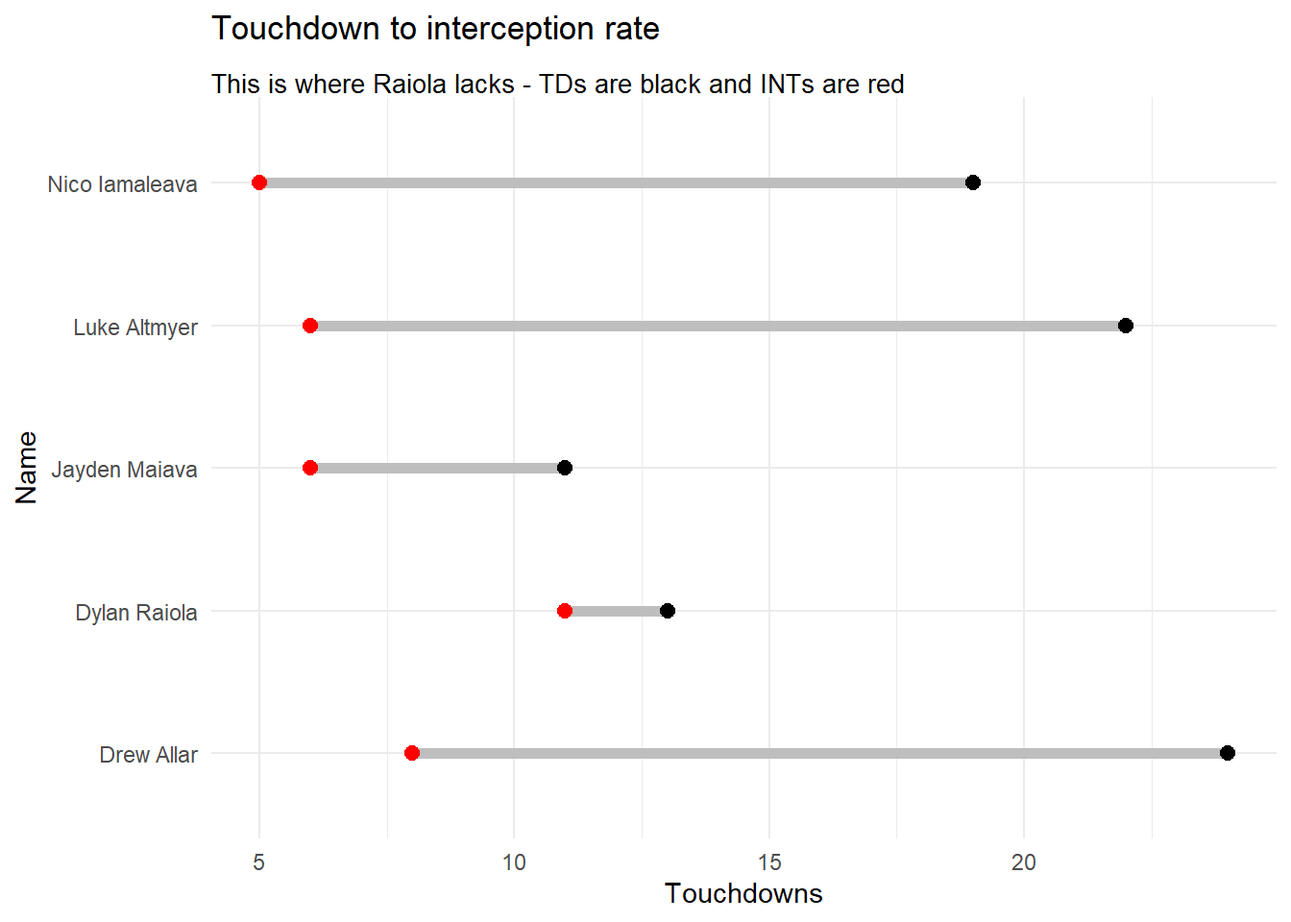
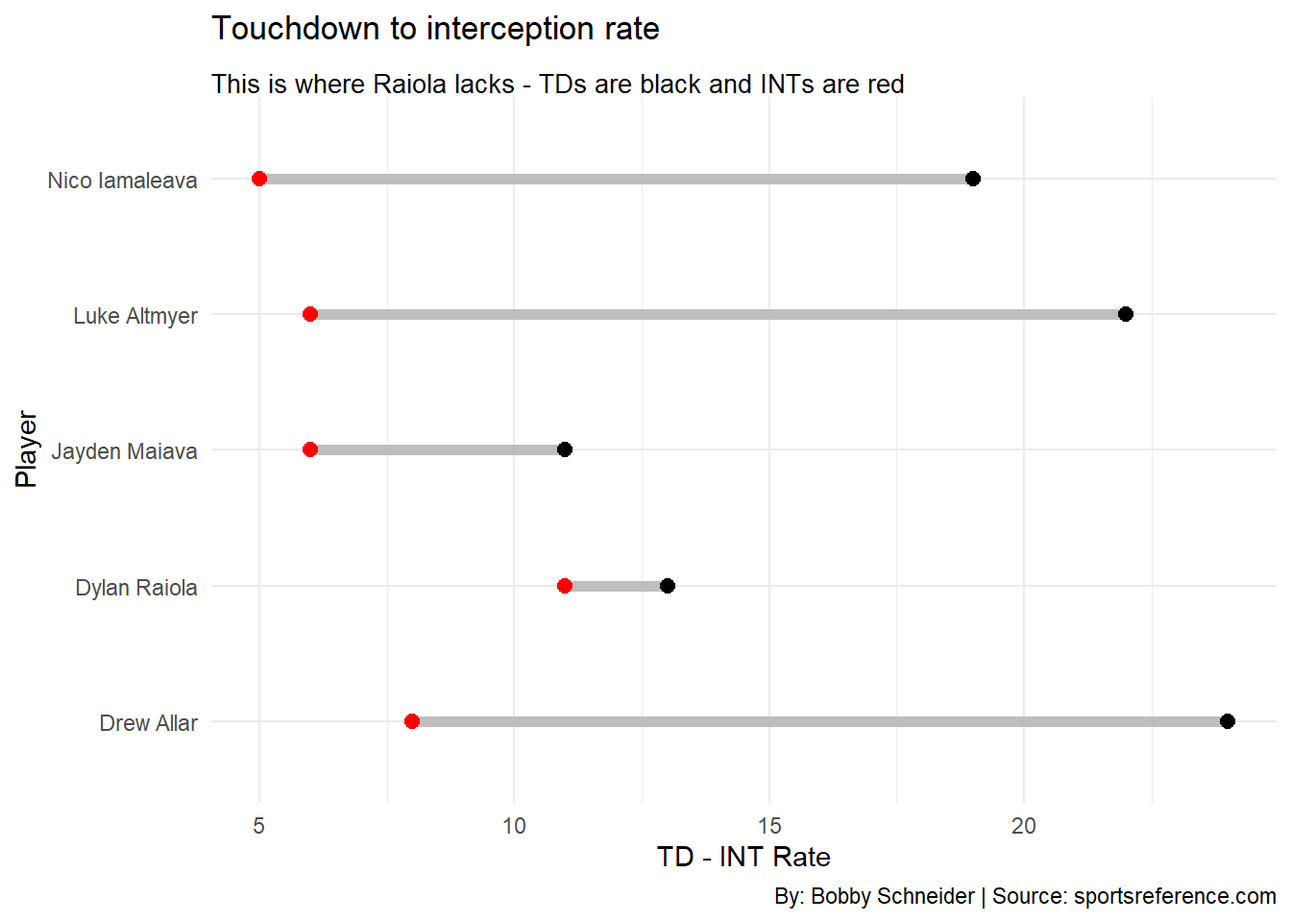
update15

diff --git a/posts/dylan-raiola-compared-to-big-ten-qbs/index.html b/posts/dylan-raiola-compared-to-big-ten-qbs/index.html
@@ -194,104 +194,16 @@ pre > code.sourceCode > span > a:first-child::before { text-decoration: underlin
 <div class="cell">
 <details class="code-fold">
 <summary>Code</summary>
-<div class="sourceCode cell-code" id="cb1"><pre class="sourceCode r code-with-copy"><code class="sourceCode r"><span id="cb1-1"><a href="#cb1-1" aria-hidden="true" tabindex="-1"></a><span class="fu">library</span>(tidyverse)</span></code><button title="Copy to Clipboard" class="code-copy-button"><i class="bi"></i></button></pre></div>
-</details>
-<div class="cell-output cell-output-stderr">
-<pre><code>Warning: package 'dplyr' was built under R version 4.4.3</code></pre>
-</div>
-<div class="cell-output cell-output-stderr">
-<pre><code>── Attaching core tidyverse packages ──────────────────────── tidyverse 2.0.0 ──
-✔ dplyr     1.1.4     ✔ readr     2.1.5
-✔ forcats   1.0.0     ✔ stringr   1.5.1
-✔ ggplot2   3.5.1     ✔ tibble    3.2.1
-✔ lubridate 1.9.4     ✔ tidyr     1.3.1
-✔ purrr     1.0.2     
-── Conflicts ────────────────────────────────────────── tidyverse_conflicts() ──
-✖ dplyr::filter() masks stats::filter()
-✖ dplyr::lag()    masks stats::lag()
-ℹ Use the conflicted package (&lt;http://conflicted.r-lib.org/&gt;) to force all conflicts to become errors</code></pre>
-</div>
-<details class="code-fold">
-<summary>Code</summary>
-<div class="sourceCode cell-code" id="cb4"><pre class="sourceCode r code-with-copy"><code class="sourceCode r"><span id="cb4-1"><a href="#cb4-1" aria-hidden="true" tabindex="-1"></a><span class="fu">library</span>(waffle)</span>
-<span id="cb4-2"><a href="#cb4-2" aria-hidden="true" tabindex="-1"></a><span class="fu">library</span>(ggalt)</span></code><button title="Copy to Clipboard" class="code-copy-button"><i class="bi"></i></button></pre></div>
-</details>
-<div class="cell-output cell-output-stderr">
-<pre><code>Registered S3 methods overwritten by 'ggalt':
-  method                  from   
-  grid.draw.absoluteGrob  ggplot2
-  grobHeight.absoluteGrob ggplot2
-  grobWidth.absoluteGrob  ggplot2
-  grobX.absoluteGrob      ggplot2
-  grobY.absoluteGrob      ggplot2</code></pre>
-</div>
-<details class="code-fold">
-<summary>Code</summary>
-<div class="sourceCode cell-code" id="cb6"><pre class="sourceCode r code-with-copy"><code class="sourceCode r"><span id="cb6-1"><a href="#cb6-1" aria-hidden="true" tabindex="-1"></a><span class="fu">library</span>(ggrepel)</span>
-<span id="cb6-2"><a href="#cb6-2" aria-hidden="true" tabindex="-1"></a><span class="fu">library</span>(ggtext)</span></code><button title="Copy to Clipboard" class="code-copy-button"><i class="bi"></i></button></pre></div>
-</details>
-</div>
-<div class="cell">
-<details class="code-fold">
-<summary>Code</summary>
-<div class="sourceCode cell-code" id="cb7"><pre class="sourceCode r code-with-copy"><code class="sourceCode r"><span id="cb7-1"><a href="#cb7-1" aria-hidden="true" tabindex="-1"></a>Raiola_B1G_QBs <span class="ot">&lt;-</span> <span class="fu">read.csv</span>(<span class="st">"Raiola_Project.csv"</span>)</span></code><button title="Copy to Clipboard" class="code-copy-button"><i class="bi"></i></button></pre></div>
-</details>
-</div>
-<div class="cell">
-<details class="code-fold">
-<summary>Code</summary>
-<div class="sourceCode cell-code" id="cb8"><pre class="sourceCode r code-with-copy"><code class="sourceCode r"><span id="cb8-1"><a href="#cb8-1" aria-hidden="true" tabindex="-1"></a><span class="fu">head</span>(Raiola_B1G_QBs)</span></code><button title="Copy to Clipboard" class="code-copy-button"><i class="bi"></i></button></pre></div>
-</details>
-<div class="cell-output cell-output-stdout">
-<pre><code>  Season           Name       Team Conference Class Position Games Completions
-1   2024   Dylan Raiola   Nebraska    Big Ten    SO       QB    13         275
-2   2024 Nico Iamaleava  Tennessee        SEC    SO       QB    13         213
-3   2024   Luke Altmyer   Illinois    Big Ten    SR       QB    13         211
-4   2024     Drew Allar Penn State    Big Ten    SR       QB    16         262
-5   2024  Jayden Maiava        USC    Big Ten    JR       QB     7         101
-  Attempts Completion_Percentage Yards TD TD.Pct Int Int.Pct Y.A AY.A  Y.C
-1      410                  67.1  2819 13    3.2  11     2.7 6.9 6.30 10.3
-2      334                  63.8  2616 19    5.7   5     1.5 7.8 8.30 12.3
-3      347                  60.8  2717 22    6.3   6     1.7 7.8 8.32 12.9
-4      394                  66.5  3327 24    6.1   8     2.0 8.4 8.75 12.7
-5      169                  59.8  1201 11    6.5   6     3.6 7.1 6.81 11.9
-    Y.G   QBR
-1 216.8 129.9
-2 201.2 145.3
-3 209.0 144.0
-4 207.9 153.5
-5 171.6 133.8</code></pre>
-</div>
-</div>
-<div class="cell">
-<details class="code-fold">
-<summary>Code</summary>
-<div class="sourceCode cell-code" id="cb10"><pre class="sourceCode r code-with-copy"><code class="sourceCode r"><span id="cb10-1"><a href="#cb10-1" aria-hidden="true" tabindex="-1"></a>Pass_Yards <span class="ot">&lt;-</span> Raiola_B1G_QBs <span class="sc">|&gt;</span></span>
-<span id="cb10-2"><a href="#cb10-2" aria-hidden="true" tabindex="-1"></a>  <span class="fu">select</span>(Yards)</span></code><button title="Copy to Clipboard" class="code-copy-button"><i class="bi"></i></button></pre></div>
-</details>
-</div>
-<div class="cell">
-<details class="code-fold">
-<summary>Code</summary>
-<div class="sourceCode cell-code" id="cb11"><pre class="sourceCode r code-with-copy"><code class="sourceCode r"><span id="cb11-1"><a href="#cb11-1" aria-hidden="true" tabindex="-1"></a>Pass_Yards <span class="ot">&lt;-</span> <span class="fu">c</span>(</span>
-<span id="cb11-2"><a href="#cb11-2" aria-hidden="true" tabindex="-1"></a>  <span class="st">"Raiola"</span> <span class="ot">=</span> <span class="dv">89</span>,</span>
-<span id="cb11-3"><a href="#cb11-3" aria-hidden="true" tabindex="-1"></a>  <span class="st">"Iamaleava"</span> <span class="ot">=</span> <span class="dv">66</span>,</span>
-<span id="cb11-4"><a href="#cb11-4" aria-hidden="true" tabindex="-1"></a>  <span class="st">"Altmyer"</span> <span class="ot">=</span> <span class="dv">77</span>,</span>
-<span id="cb11-5"><a href="#cb11-5" aria-hidden="true" tabindex="-1"></a>  <span class="st">"Allar"</span> <span class="ot">=</span> <span class="dv">127</span>,</span>
-<span id="cb11-6"><a href="#cb11-6" aria-hidden="true" tabindex="-1"></a>  <span class="st">"Maiava"</span> <span class="ot">=</span> <span class="dv">21</span></span>
-<span id="cb11-7"><a href="#cb11-7" aria-hidden="true" tabindex="-1"></a>)</span></code><button title="Copy to Clipboard" class="code-copy-button"><i class="bi"></i></button></pre></div>
-</details>
-</div>
-<div class="cell">
-<details class="code-fold">
-<summary>Code</summary>
-<div class="sourceCode cell-code" id="cb12"><pre class="sourceCode r code-with-copy"><code class="sourceCode r"><span id="cb12-1"><a href="#cb12-1" aria-hidden="true" tabindex="-1"></a><span class="fu">waffle</span>(</span>
-<span id="cb12-2"><a href="#cb12-2" aria-hidden="true" tabindex="-1"></a>        Pass_Yards, </span>
-<span id="cb12-3"><a href="#cb12-3" aria-hidden="true" tabindex="-1"></a>        <span class="at">rows =</span> <span class="dv">10</span>, </span>
-<span id="cb12-4"><a href="#cb12-4" aria-hidden="true" tabindex="-1"></a>        <span class="at">title=</span><span class="st">"Passing Yards"</span>, </span>
-<span id="cb12-5"><a href="#cb12-5" aria-hidden="true" tabindex="-1"></a>        <span class="at">xlab=</span><span class="st">"1 square = 10 yards"</span>, </span>
-<span id="cb12-6"><a href="#cb12-6" aria-hidden="true" tabindex="-1"></a>        <span class="at">colors =</span> <span class="fu">c</span>(<span class="st">"red"</span>, <span class="st">"skyblue"</span>, <span class="st">"orange"</span>, <span class="st">"navy"</span>, <span class="st">"gold"</span>)</span>
-<span id="cb12-7"><a href="#cb12-7" aria-hidden="true" tabindex="-1"></a>)</span></code><button title="Copy to Clipboard" class="code-copy-button"><i class="bi"></i></button></pre></div>
+<div class="sourceCode cell-code" id="cb1"><pre class="sourceCode r code-with-copy"><code class="sourceCode r"><span id="cb1-1"><a href="#cb1-1" aria-hidden="true" tabindex="-1"></a><span class="fu">waffle</span>(</span>
+<span id="cb1-2"><a href="#cb1-2" aria-hidden="true" tabindex="-1"></a>        Pass_Yards, </span>
+<span id="cb1-3"><a href="#cb1-3" aria-hidden="true" tabindex="-1"></a>        <span class="at">rows =</span> <span class="dv">10</span>, </span>
+<span id="cb1-4"><a href="#cb1-4" aria-hidden="true" tabindex="-1"></a>        <span class="at">title=</span><span class="st">"Passing Yards"</span>, </span>
+<span id="cb1-5"><a href="#cb1-5" aria-hidden="true" tabindex="-1"></a>        <span class="at">xlab=</span><span class="st">"1 square = 10 yards"</span>, </span>
+<span id="cb1-6"><a href="#cb1-6" aria-hidden="true" tabindex="-1"></a>        <span class="at">colors =</span> <span class="fu">c</span>(<span class="st">"red"</span>, <span class="st">"skyblue"</span>, <span class="st">"orange"</span>, <span class="st">"navy"</span>, <span class="st">"gold"</span>)</span>
+<span id="cb1-7"><a href="#cb1-7" aria-hidden="true" tabindex="-1"></a>)<span class="sc">+</span></span>
+<span id="cb1-8"><a href="#cb1-8" aria-hidden="true" tabindex="-1"></a><span class="fu">labs</span>(</span>
+<span id="cb1-9"><a href="#cb1-9" aria-hidden="true" tabindex="-1"></a>    <span class="at">title=</span><span class="st">"Looking at passing yards, where's Raiola?"</span>, </span>
+<span id="cb1-10"><a href="#cb1-10" aria-hidden="true" tabindex="-1"></a>    <span class="at">subtitle =</span> <span class="st">"Raiola comes in ranked second"</span>)</span></code><button title="Copy to Clipboard" class="code-copy-button"><i class="bi"></i></button></pre></div>
 </details>
 <div class="cell-output-display">
 <div>
@@ -300,14 +212,35 @@ pre > code.sourceCode > span > a:first-child::before { text-decoration: underlin
 </figure>
 </div>
 </div>
+<details class="code-fold">
+<summary>Code</summary>
+<div class="sourceCode cell-code" id="cb2"><pre class="sourceCode r code-with-copy"><code class="sourceCode r"><span id="cb2-1"><a href="#cb2-1" aria-hidden="true" tabindex="-1"></a>caption <span class="ot">=</span> <span class="st">"By: Bobby Schneider | Source: sportsreference.com"</span></span></code><button title="Copy to Clipboard" class="code-copy-button"><i class="bi"></i></button></pre></div>
+</details>
 </div>
 <div class="cell">
 <details class="code-fold">
 <summary>Code</summary>
-<div class="sourceCode cell-code" id="cb13"><pre class="sourceCode r code-with-copy"><code class="sourceCode r"><span id="cb13-1"><a href="#cb13-1" aria-hidden="true" tabindex="-1"></a>Raiola_B1G_QBs <span class="sc">|&gt;</span></span>
-<span id="cb13-2"><a href="#cb13-2" aria-hidden="true" tabindex="-1"></a>  <span class="fu">ggplot</span>() <span class="sc">+</span> <span class="fu">geom_point</span>(<span class="at">data=</span>Raiola_B1G_QBs, <span class="fu">aes</span>(<span class="at">x=</span>Completion_Percentage, <span class="at">y=</span>Attempts), <span class="at">color=</span><span class="st">"black"</span>) <span class="sc">+</span></span>
-<span id="cb13-3"><a href="#cb13-3" aria-hidden="true" tabindex="-1"></a>  <span class="fu">geom_text_repel</span>(<span class="at">data=</span>Raiola_B1G_QBs, <span class="fu">aes</span>(<span class="at">x=</span>Completion_Percentage, <span class="at">y=</span>Attempts, <span class="at">label=</span>Name)) <span class="sc">+</span></span>
-<span id="cb13-4"><a href="#cb13-4" aria-hidden="true" tabindex="-1"></a>  <span class="fu">theme_minimal</span>()</span></code><button title="Copy to Clipboard" class="code-copy-button"><i class="bi"></i></button></pre></div>
+<div class="sourceCode cell-code" id="cb3"><pre class="sourceCode r code-with-copy"><code class="sourceCode r"><span id="cb3-1"><a href="#cb3-1" aria-hidden="true" tabindex="-1"></a>Raiola_B1G_QBs <span class="sc">|&gt;</span></span>
+<span id="cb3-2"><a href="#cb3-2" aria-hidden="true" tabindex="-1"></a>  <span class="fu">ggplot</span>() <span class="sc">+</span> </span>
+<span id="cb3-3"><a href="#cb3-3" aria-hidden="true" tabindex="-1"></a>  <span class="fu">geom_point</span>(<span class="fu">aes</span>(<span class="at">x =</span> Completion_Percentage, <span class="at">y =</span> Attempts), <span class="at">color =</span> <span class="st">"black"</span>) <span class="sc">+</span></span>
+<span id="cb3-4"><a href="#cb3-4" aria-hidden="true" tabindex="-1"></a>  <span class="fu">geom_text_repel</span>(</span>
+<span id="cb3-5"><a href="#cb3-5" aria-hidden="true" tabindex="-1"></a>    <span class="fu">aes</span>(<span class="at">x =</span> Completion_Percentage, <span class="at">y =</span> Attempts, <span class="at">label =</span> Name, <span class="at">color =</span> Name)</span>
+<span id="cb3-6"><a href="#cb3-6" aria-hidden="true" tabindex="-1"></a>  ) <span class="sc">+</span> </span>
+<span id="cb3-7"><a href="#cb3-7" aria-hidden="true" tabindex="-1"></a>  <span class="fu">scale_color_manual</span>(</span>
+<span id="cb3-8"><a href="#cb3-8" aria-hidden="true" tabindex="-1"></a>    <span class="at">values =</span> <span class="fu">c</span>(</span>
+<span id="cb3-9"><a href="#cb3-9" aria-hidden="true" tabindex="-1"></a>      <span class="st">"Dylan Raiola"</span> <span class="ot">=</span> <span class="st">"red"</span>,</span>
+<span id="cb3-10"><a href="#cb3-10" aria-hidden="true" tabindex="-1"></a>      <span class="st">"Nico Iamaleava"</span> <span class="ot">=</span> <span class="st">"skyblue"</span>,</span>
+<span id="cb3-11"><a href="#cb3-11" aria-hidden="true" tabindex="-1"></a>      <span class="st">"Luke Altmyer"</span> <span class="ot">=</span> <span class="st">"orange"</span>,</span>
+<span id="cb3-12"><a href="#cb3-12" aria-hidden="true" tabindex="-1"></a>      <span class="st">"Drew Allar"</span> <span class="ot">=</span> <span class="st">"navy"</span>,</span>
+<span id="cb3-13"><a href="#cb3-13" aria-hidden="true" tabindex="-1"></a>      <span class="st">"Jayden Maiava"</span> <span class="ot">=</span> <span class="st">"gold"</span></span>
+<span id="cb3-14"><a href="#cb3-14" aria-hidden="true" tabindex="-1"></a>    )</span>
+<span id="cb3-15"><a href="#cb3-15" aria-hidden="true" tabindex="-1"></a>  ) <span class="sc">+</span></span>
+<span id="cb3-16"><a href="#cb3-16" aria-hidden="true" tabindex="-1"></a>  <span class="fu">theme_minimal</span>()<span class="sc">+</span></span>
+<span id="cb3-17"><a href="#cb3-17" aria-hidden="true" tabindex="-1"></a>  <span class="fu">labs</span>( <span class="at">x =</span> <span class="st">"Completion Percentage"</span>, <span class="at">y =</span> <span class="st">"Attempts"</span>,</span>
+<span id="cb3-18"><a href="#cb3-18" aria-hidden="true" tabindex="-1"></a>    <span class="at">title=</span><span class="st">"Let's look at who has the best completion percentage"</span>, </span>
+<span id="cb3-19"><a href="#cb3-19" aria-hidden="true" tabindex="-1"></a>    <span class="at">subtitle =</span> <span class="st">"Look at that, Raiola has the most attempts and still the highest percentage"</span>,</span>
+<span id="cb3-20"><a href="#cb3-20" aria-hidden="true" tabindex="-1"></a>    <span class="at">caption =</span> <span class="st">"By: Bobby Schneider | Source: sportsreference.com"</span></span>
+<span id="cb3-21"><a href="#cb3-21" aria-hidden="true" tabindex="-1"></a>  )</span></code><button title="Copy to Clipboard" class="code-copy-button"><i class="bi"></i></button></pre></div>
 </details>
 <div class="cell-output-display">
 <div>
@@ -320,32 +253,23 @@ pre > code.sourceCode > span > a:first-child::before { text-decoration: underlin
 <div class="cell">
 <details class="code-fold">
 <summary>Code</summary>
-<div class="sourceCode cell-code" id="cb14"><pre class="sourceCode r code-with-copy"><code class="sourceCode r"><span id="cb14-1"><a href="#cb14-1" aria-hidden="true" tabindex="-1"></a>TD_INT <span class="ot">&lt;-</span> Raiola_B1G_QBs <span class="sc">|&gt;</span></span>
-<span id="cb14-2"><a href="#cb14-2" aria-hidden="true" tabindex="-1"></a>  <span class="fu">group_by</span>(Name) <span class="sc">|&gt;</span> </span>
-<span id="cb14-3"><a href="#cb14-3" aria-hidden="true" tabindex="-1"></a>  <span class="fu">summarise</span>(</span>
-<span id="cb14-4"><a href="#cb14-4" aria-hidden="true" tabindex="-1"></a>    <span class="at">Touchdowns =</span> <span class="fu">sum</span>(TD), </span>
-<span id="cb14-5"><a href="#cb14-5" aria-hidden="true" tabindex="-1"></a>    <span class="at">Interceptions =</span> <span class="fu">sum</span>(Int)) </span></code><button title="Copy to Clipboard" class="code-copy-button"><i class="bi"></i></button></pre></div>
-</details>
-</div>
-<div class="cell">
-<details class="code-fold">
-<summary>Code</summary>
-<div class="sourceCode cell-code" id="cb15"><pre class="sourceCode r code-with-copy"><code class="sourceCode r"><span id="cb15-1"><a href="#cb15-1" aria-hidden="true" tabindex="-1"></a><span class="fu">ggplot</span>() <span class="sc">+</span> </span>
-<span id="cb15-2"><a href="#cb15-2" aria-hidden="true" tabindex="-1"></a>  <span class="fu">geom_dumbbell</span>(</span>
-<span id="cb15-3"><a href="#cb15-3" aria-hidden="true" tabindex="-1"></a>    <span class="at">data=</span>TD_INT, </span>
-<span id="cb15-4"><a href="#cb15-4" aria-hidden="true" tabindex="-1"></a>    <span class="fu">aes</span>(<span class="at">y=</span>Name, <span class="at">x=</span>Touchdowns, <span class="at">xend=</span>Interceptions),</span>
-<span id="cb15-5"><a href="#cb15-5" aria-hidden="true" tabindex="-1"></a>    <span class="at">size =</span> <span class="dv">2</span>,</span>
-<span id="cb15-6"><a href="#cb15-6" aria-hidden="true" tabindex="-1"></a>    <span class="at">colour =</span> <span class="st">"grey"</span>,</span>
-<span id="cb15-7"><a href="#cb15-7" aria-hidden="true" tabindex="-1"></a>    <span class="at">colour_x =</span> <span class="st">"black"</span>,</span>
-<span id="cb15-8"><a href="#cb15-8" aria-hidden="true" tabindex="-1"></a>    <span class="at">colour_xend =</span> <span class="st">"red"</span>)<span class="sc">+</span></span>
-<span id="cb15-9"><a href="#cb15-9" aria-hidden="true" tabindex="-1"></a>  <span class="fu">theme_minimal</span>()<span class="sc">+</span></span>
-<span id="cb15-10"><a href="#cb15-10" aria-hidden="true" tabindex="-1"></a>  <span class="fu">labs</span>(</span>
-<span id="cb15-11"><a href="#cb15-11" aria-hidden="true" tabindex="-1"></a>    <span class="at">title=</span><span class="st">"Touchdown to interception rate"</span>, </span>
-<span id="cb15-12"><a href="#cb15-12" aria-hidden="true" tabindex="-1"></a>    <span class="at">subtitle =</span> <span class="st">"This is where Raiola lacks - TDs are black and INTs are red"</span></span>
-<span id="cb15-13"><a href="#cb15-13" aria-hidden="true" tabindex="-1"></a>  ) <span class="sc">+</span> </span>
-<span id="cb15-14"><a href="#cb15-14" aria-hidden="true" tabindex="-1"></a>  <span class="fu">theme</span>(</span>
-<span id="cb15-15"><a href="#cb15-15" aria-hidden="true" tabindex="-1"></a>    <span class="at">plot.subtitle =</span> <span class="fu">element_textbox_simple</span>(<span class="at">margin =</span> <span class="fu">margin</span>(<span class="at">t =</span> <span class="dv">5</span>), <span class="at">size =</span> <span class="dv">10</span>)</span>
-<span id="cb15-16"><a href="#cb15-16" aria-hidden="true" tabindex="-1"></a>  )</span></code><button title="Copy to Clipboard" class="code-copy-button"><i class="bi"></i></button></pre></div>
+<div class="sourceCode cell-code" id="cb4"><pre class="sourceCode r code-with-copy"><code class="sourceCode r"><span id="cb4-1"><a href="#cb4-1" aria-hidden="true" tabindex="-1"></a><span class="fu">ggplot</span>() <span class="sc">+</span> </span>
+<span id="cb4-2"><a href="#cb4-2" aria-hidden="true" tabindex="-1"></a>  <span class="fu">geom_dumbbell</span>(</span>
+<span id="cb4-3"><a href="#cb4-3" aria-hidden="true" tabindex="-1"></a>    <span class="at">data=</span>TD_INT, </span>
+<span id="cb4-4"><a href="#cb4-4" aria-hidden="true" tabindex="-1"></a>    <span class="fu">aes</span>(<span class="at">y=</span>Name, <span class="at">x=</span>Touchdowns, <span class="at">xend=</span>Interceptions),</span>
+<span id="cb4-5"><a href="#cb4-5" aria-hidden="true" tabindex="-1"></a>    <span class="at">size =</span> <span class="dv">2</span>,</span>
+<span id="cb4-6"><a href="#cb4-6" aria-hidden="true" tabindex="-1"></a>    <span class="at">colour =</span> <span class="st">"grey"</span>,</span>
+<span id="cb4-7"><a href="#cb4-7" aria-hidden="true" tabindex="-1"></a>    <span class="at">colour_x =</span> <span class="st">"black"</span>,</span>
+<span id="cb4-8"><a href="#cb4-8" aria-hidden="true" tabindex="-1"></a>    <span class="at">colour_xend =</span> <span class="st">"red"</span>)<span class="sc">+</span></span>
+<span id="cb4-9"><a href="#cb4-9" aria-hidden="true" tabindex="-1"></a>  <span class="fu">theme_minimal</span>()<span class="sc">+</span></span>
+<span id="cb4-10"><a href="#cb4-10" aria-hidden="true" tabindex="-1"></a>  <span class="fu">labs</span>( <span class="at">x =</span> <span class="st">"TD - INT Rate"</span>, <span class="at">y =</span> <span class="st">"Player"</span>,</span>
+<span id="cb4-11"><a href="#cb4-11" aria-hidden="true" tabindex="-1"></a>    <span class="at">title=</span><span class="st">"Touchdown to interception rate"</span>, </span>
+<span id="cb4-12"><a href="#cb4-12" aria-hidden="true" tabindex="-1"></a>    <span class="at">subtitle =</span> <span class="st">"This is where Raiola lacks - TDs are black and INTs are red"</span>,</span>
+<span id="cb4-13"><a href="#cb4-13" aria-hidden="true" tabindex="-1"></a>    <span class="at">caption =</span> <span class="st">"By: Bobby Schneider | Source: sportsreference.com"</span></span>
+<span id="cb4-14"><a href="#cb4-14" aria-hidden="true" tabindex="-1"></a>  ) <span class="sc">+</span> </span>
+<span id="cb4-15"><a href="#cb4-15" aria-hidden="true" tabindex="-1"></a>  <span class="fu">theme</span>(</span>
+<span id="cb4-16"><a href="#cb4-16" aria-hidden="true" tabindex="-1"></a>    <span class="at">plot.subtitle =</span> <span class="fu">element_textbox_simple</span>(<span class="at">margin =</span> <span class="fu">margin</span>(<span class="at">t =</span> <span class="dv">5</span>), <span class="at">size =</span> <span class="dv">10</span>)</span>
+<span id="cb4-17"><a href="#cb4-17" aria-hidden="true" tabindex="-1"></a>  )</span></code><button title="Copy to Clipboard" class="code-copy-button"><i class="bi"></i></button></pre></div>
 </details>
 <div class="cell-output cell-output-stderr">
 <pre><code>Warning: Using the `size` aesthetic with geom_segment was deprecated in ggplot2 3.4.0.
@@ -355,6 +279,45 @@ pre > code.sourceCode > span > a:first-child::before { text-decoration: underlin
 <div>
 <figure class="figure">
 <p><img src="index_files/figure-html/unnamed-chunk-9-1.png" class="img-fluid figure-img" width="672"></p>
+</figure>
+</div>
+</div>
+</div>
+<div class="cell">
+<details class="code-fold">
+<summary>Code</summary>
+<div class="sourceCode cell-code" id="cb6"><pre class="sourceCode r code-with-copy"><code class="sourceCode r"><span id="cb6-1"><a href="#cb6-1" aria-hidden="true" tabindex="-1"></a><span class="fu">ggplot</span>() <span class="sc">+</span></span>
+<span id="cb6-2"><a href="#cb6-2" aria-hidden="true" tabindex="-1"></a>  <span class="fu">geom_beeswarm</span>(</span>
+<span id="cb6-3"><a href="#cb6-3" aria-hidden="true" tabindex="-1"></a>    <span class="at">data =</span> Raiola_B1G_QBs, </span>
+<span id="cb6-4"><a href="#cb6-4" aria-hidden="true" tabindex="-1"></a>    <span class="fu">aes</span>(<span class="at">x =</span> Y.G, <span class="at">y =</span> QBR), <span class="at">color =</span> <span class="st">"black"</span></span>
+<span id="cb6-5"><a href="#cb6-5" aria-hidden="true" tabindex="-1"></a>  ) <span class="sc">+</span> </span>
+<span id="cb6-6"><a href="#cb6-6" aria-hidden="true" tabindex="-1"></a>  <span class="fu">geom_text_repel</span>(</span>
+<span id="cb6-7"><a href="#cb6-7" aria-hidden="true" tabindex="-1"></a>    <span class="at">data =</span> Raiola_B1G_QBs, </span>
+<span id="cb6-8"><a href="#cb6-8" aria-hidden="true" tabindex="-1"></a>    <span class="fu">aes</span>(<span class="at">x =</span> Y.G, <span class="at">y =</span> QBR, <span class="at">label =</span> Name, <span class="at">color =</span> Name), </span>
+<span id="cb6-9"><a href="#cb6-9" aria-hidden="true" tabindex="-1"></a>    <span class="at">show.legend =</span> <span class="cn">FALSE</span></span>
+<span id="cb6-10"><a href="#cb6-10" aria-hidden="true" tabindex="-1"></a>  ) <span class="sc">+</span> </span>
+<span id="cb6-11"><a href="#cb6-11" aria-hidden="true" tabindex="-1"></a>  <span class="fu">scale_color_manual</span>(</span>
+<span id="cb6-12"><a href="#cb6-12" aria-hidden="true" tabindex="-1"></a>    <span class="at">values =</span> <span class="fu">c</span>(</span>
+<span id="cb6-13"><a href="#cb6-13" aria-hidden="true" tabindex="-1"></a>      <span class="st">"Dylan Raiola"</span> <span class="ot">=</span> <span class="st">"red"</span>,</span>
+<span id="cb6-14"><a href="#cb6-14" aria-hidden="true" tabindex="-1"></a>      <span class="st">"Nico Iamaleava"</span> <span class="ot">=</span> <span class="st">"skyblue"</span>,</span>
+<span id="cb6-15"><a href="#cb6-15" aria-hidden="true" tabindex="-1"></a>      <span class="st">"Luke Altmyer"</span> <span class="ot">=</span> <span class="st">"orange"</span>,</span>
+<span id="cb6-16"><a href="#cb6-16" aria-hidden="true" tabindex="-1"></a>      <span class="st">"Drew Allar"</span> <span class="ot">=</span> <span class="st">"navy"</span>,</span>
+<span id="cb6-17"><a href="#cb6-17" aria-hidden="true" tabindex="-1"></a>      <span class="st">"Jayden Maiava"</span> <span class="ot">=</span> <span class="st">"gold"</span></span>
+<span id="cb6-18"><a href="#cb6-18" aria-hidden="true" tabindex="-1"></a>    )</span>
+<span id="cb6-19"><a href="#cb6-19" aria-hidden="true" tabindex="-1"></a>  ) <span class="sc">+</span></span>
+<span id="cb6-20"><a href="#cb6-20" aria-hidden="true" tabindex="-1"></a>  <span class="fu">labs</span>(</span>
+<span id="cb6-21"><a href="#cb6-21" aria-hidden="true" tabindex="-1"></a>    <span class="at">x =</span> <span class="st">"Passing Yards Per Game"</span>, </span>
+<span id="cb6-22"><a href="#cb6-22" aria-hidden="true" tabindex="-1"></a>    <span class="at">y =</span> <span class="st">"QBR"</span>,</span>
+<span id="cb6-23"><a href="#cb6-23" aria-hidden="true" tabindex="-1"></a>    <span class="at">title =</span> <span class="st">"Passing yards per game, along with QBR"</span>, </span>
+<span id="cb6-24"><a href="#cb6-24" aria-hidden="true" tabindex="-1"></a>    <span class="at">subtitle =</span> <span class="st">"It's clear that the interceptions hurt Raiola's rating"</span>,</span>
+<span id="cb6-25"><a href="#cb6-25" aria-hidden="true" tabindex="-1"></a>    <span class="at">caption =</span> <span class="st">"By: Bobby Schneider | Source: sportsreference.com"</span></span>
+<span id="cb6-26"><a href="#cb6-26" aria-hidden="true" tabindex="-1"></a>  ) <span class="sc">+</span></span>
+<span id="cb6-27"><a href="#cb6-27" aria-hidden="true" tabindex="-1"></a>  <span class="fu">theme_minimal</span>()</span></code><button title="Copy to Clipboard" class="code-copy-button"><i class="bi"></i></button></pre></div>
+</details>
+<div class="cell-output-display">
+<div>
+<figure class="figure">
+<p><img src="index_files/figure-html/unnamed-chunk-11-1.png" class="img-fluid figure-img" width="672"></p>
 </figure>
 </div>
 </div>

diff --git a/index.html b/index.html
@@ -205,7 +205,7 @@ window.Quarto = {
 
 <div class="quarto-listing quarto-listing-container-default" id="listing-listing">
 <div class="list quarto-listing-default">
[2 lines of base64/hex data omitted]
 <div class="thumbnail">
 <p><a href="./posts/dylan-raiola-compared-to-big-ten-qbs/index.html" class="no-external"></a></p><a href="./posts/dylan-raiola-compared-to-big-ten-qbs/index.html" class="no-external">
 <p><img loading="lazy" src="./posts/dylan-raiola-compared-to-big-ten-qbs/Raiola_Graphic.png" class="thumbnail-image"></p>
@@ -236,14 +236,12 @@ Big Ten
 <a href="./posts/dylan-raiola-compared-to-big-ten-qbs/index.html" class="no-external">
 <details class="code-fold">
 <summary>Code</summary>
-<div class="sourceCode cell-code" id="cb1"><pre class="sourceCode r code-with-copy"><code class="sourceCode r"><span id="cb1-1"><span class="fu">library</span>(tidyverse)</span></code></pre></div>
-</details>
-<div class="cell-output cell-output-stderr">
-<pre><code>Warning: package 'dplyr' was built under R version 4.4.3</code></pre>
-</div>
-<div class="cell-output cell-output-stderr">
-<pre><code>── Attaching core tidyverse packages ──────────────────────── tidyverse 2.0.0 ──
-✔…</code></pre></div><details class="code-fold"><summary></summary><div class="sourceCode cell-code" id="cb4"><pre class="sourceCode r code-with-copy"><code class="sourceCode r"><span id="cb4-1"><span class="fu"></span></span><span id="cb4-2"><span class="fu"></span></span></code></pre></div></details><div class="cell-output cell-output-stderr"><pre><code></code></pre></div><details class="code-fold"><summary></summary><div class="sourceCode cell-code" id="cb6"><pre class="sourceCode r code-with-copy"><code class="sourceCode r"><span id="cb6-1"><span class="fu"></span></span><span id="cb6-2"><span class="fu"></span></span></code></pre></div></details></a>
+<div class="sourceCode cell-code" id="cb1"><pre class="sourceCode r code-with-copy"><code class="sourceCode r"><span id="cb1-1"><span class="fu">waffle</span>(</span>
+<span id="cb1-2">        Pass_Yards, </span>
+<span id="cb1-3">        <span class="at">rows =</span> <span class="dv">10</span>, </span>
+<span id="cb1-4">        <span class="at">title=</span><span class="st">"Passing Yards"</span>, </span>
+<span id="cb1-5">        <span class="at">xlab=</span><span class="st">"1 square = 10 yards"</span>, </span>
+<span id="cb1-6">        <span class="at">colors =</span> <span class="fu">c</span>(<span class="st">"red"</span>, <span class="st">"skyblue"</span>, <span class="st">"orange"</span>, <span class="st">"n…</span><span class="st"></span></span><span id="cb1-7"><span class="sc"></span></span><span id="cb1-8"><span class="fu"></span></span><span id="cb1-9"><span class="at"></span><span class="st"></span></span><span id="cb1-10"><span class="at"></span><span class="st"></span></span></code></pre></div></details><div class="cell-output-display"><div><figure class="figure"><p></p></figure></div></div><details class="code-fold"><summary></summary><div class="sourceCode cell-code" id="cb2"><pre class="sourceCode r code-with-copy"><code class="sourceCode r"><span id="cb2-1"><span class="ot"></span><span class="st"></span></span></code></pre></div></details></a>
 </div>
 </div>
 <div class="metadata">
@@ -257,7 +255,7 @@ Bobby Schneider
 </a>
 </div>
 </div>
[2 lines of base64/hex data omitted]
 <div class="thumbnail">
 <p><a href="./posts/emmett-johnson-set-to-take-a-leap/index.html" class="no-external"></a></p><a href="./posts/emmett-johnson-set-to-take-a-leap/index.html" class="no-external">
 <p><img loading="lazy" src="./posts/emmett-johnson-set-to-take-a-leap/EJ_graphic.jpg" class="thumbnail-image"></p>
